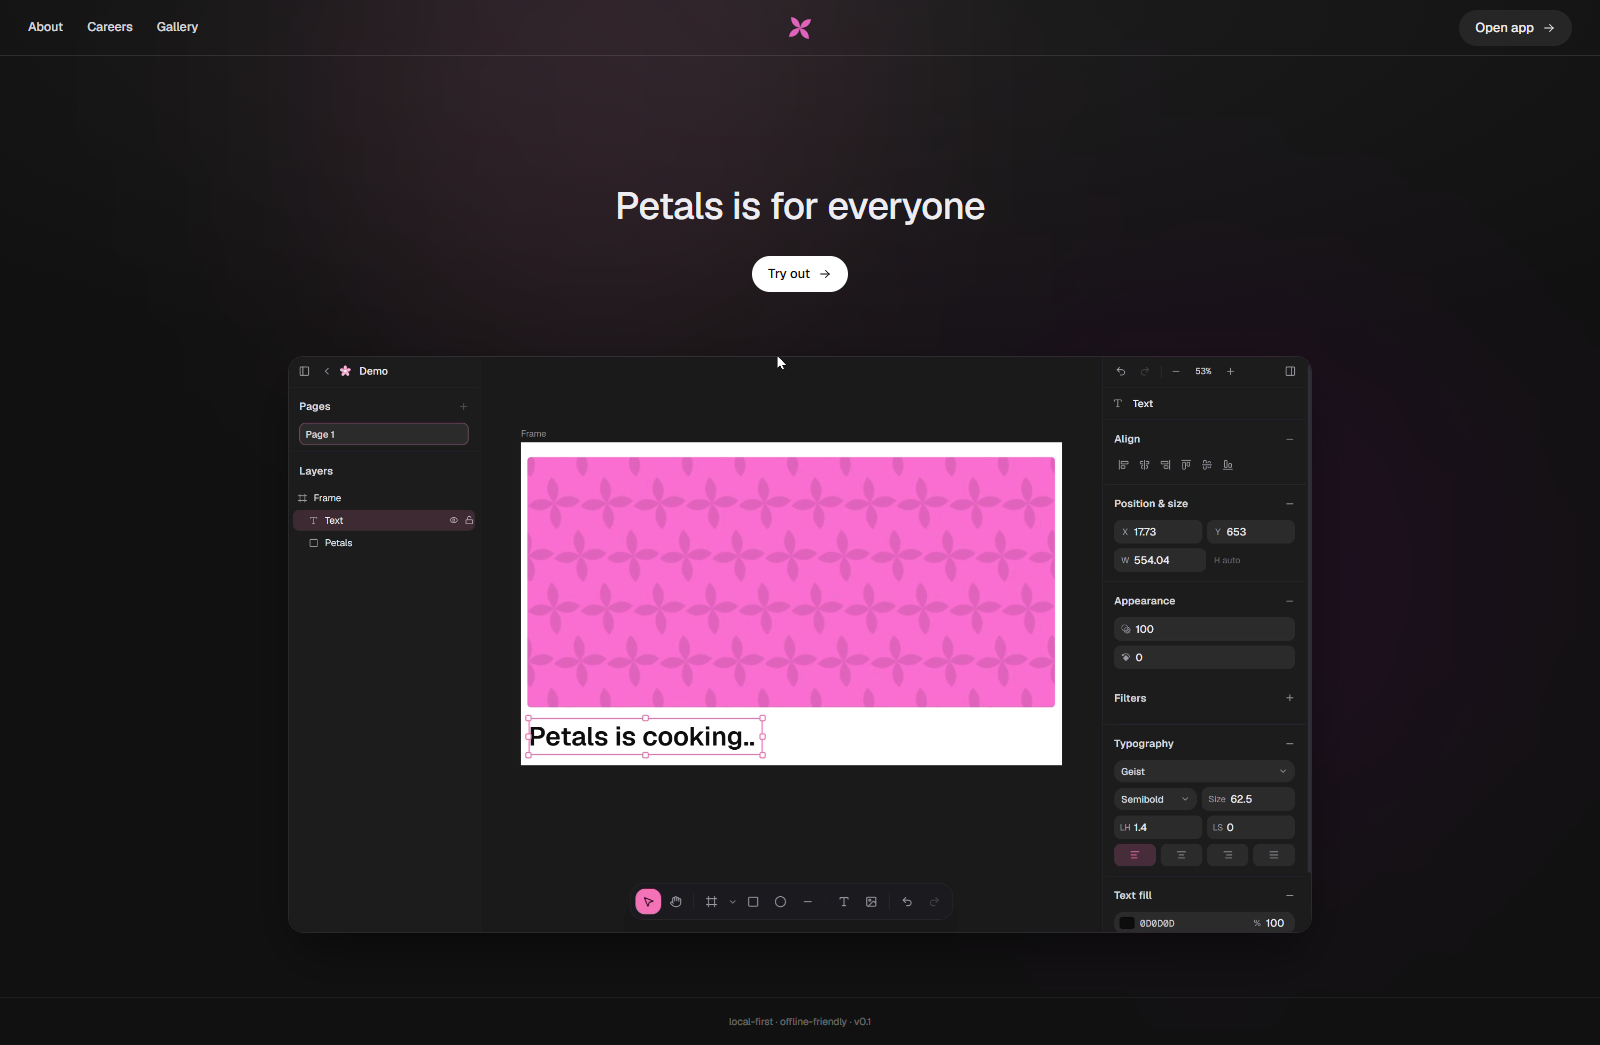
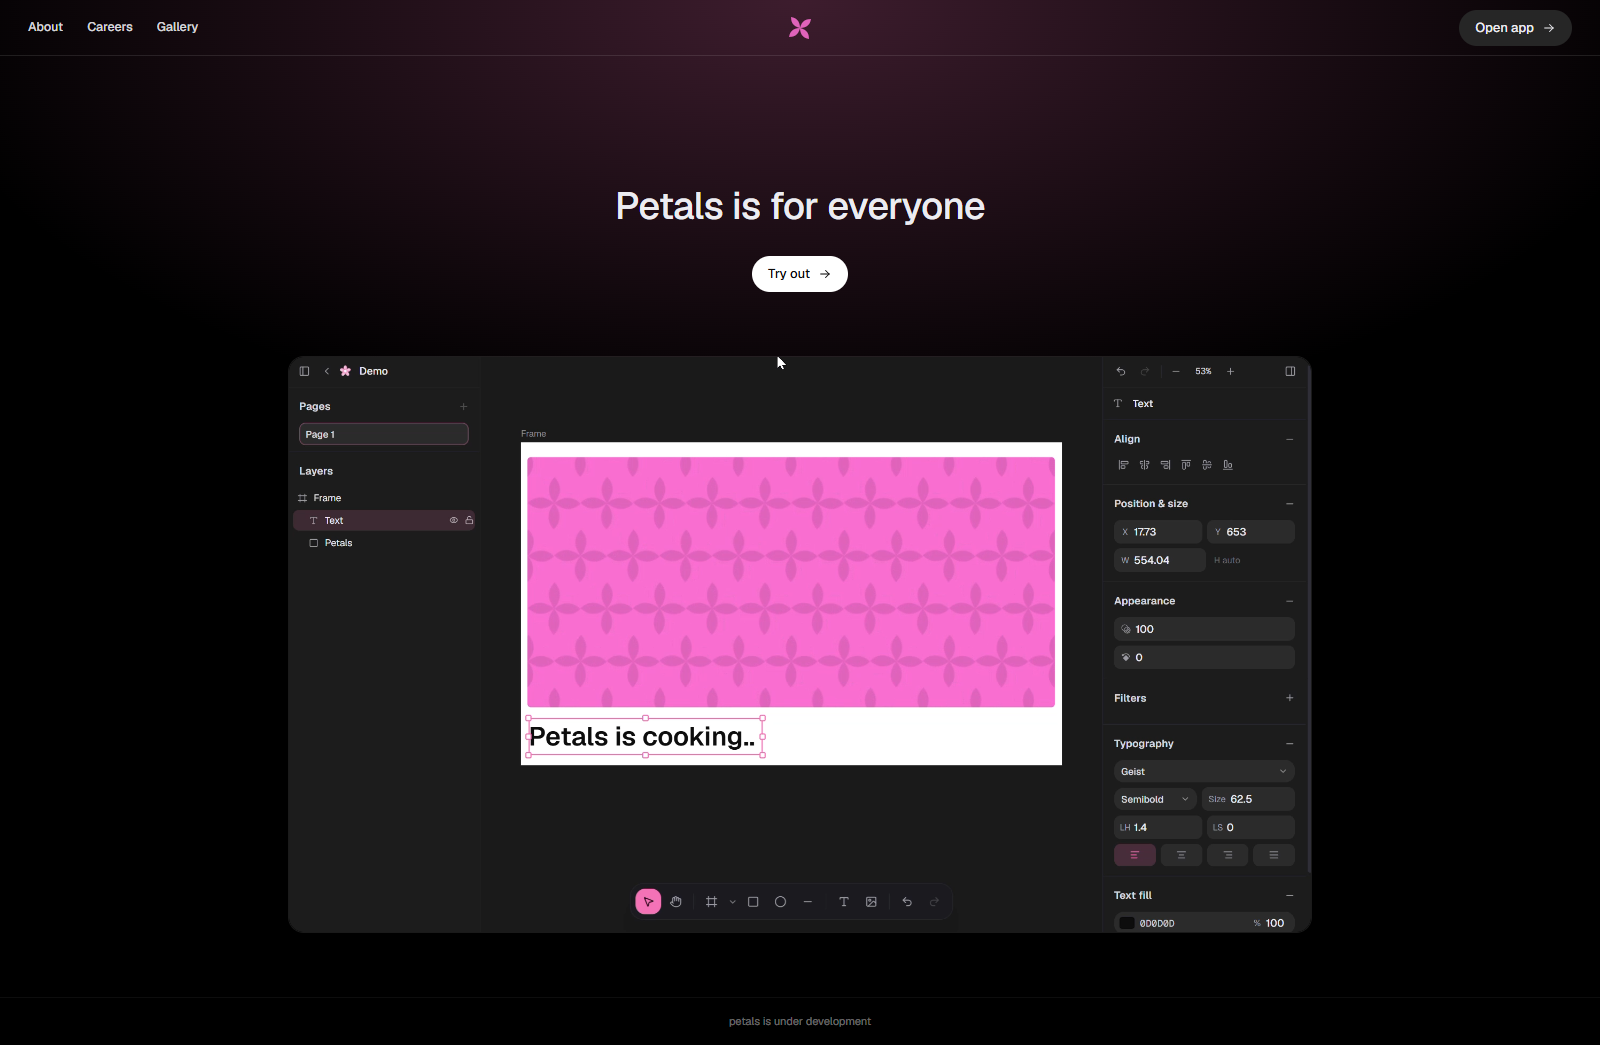
Routing: clean paths (no '#') via History API with hash deep-link migration; landing bg = rose twilight top glow; petal -> petals everywhere user-visible; dashboard header bg matches body, Log in pill added, petal type fixes

Changed region(s): [[0.8125, 0.3062, 0.9375, 0.7656], [0.4688, 0.9493, 0.5312, 0.9799]]

diff --git a/src/App.tsx b/src/App.tsx
@@ -8,24 +8,47 @@ type Route =
   | { kind: 'dashboard' }
   | { kind: 'board'; id: string }
 
-function parseHash(): Route {
-  const h = window.location.hash
-  if (h.startsWith('#/projects')) return { kind: 'dashboard' }
-  const m = /^#\/board\/([A-Za-z0-9_-]+)/.exec(h)
+function parsePath(): Route {
+  const p = window.location.pathname
+  if (p === '/') return { kind: 'landing' }
+  const m = /^\/board\/([A-Za-z0-9_-]+)/.exec(p)
   if (m) return { kind: 'board', id: m[1] }
+  if (p.startsWith('/projects')) return { kind: 'dashboard' }
   return { kind: 'landing' }
 }
 
+/** Promote old '#/...' bookmarks to clean paths (one-time, no history entry). */
+function migrateHash() {
+  const h = window.location.hash
+  if (!h.startsWith('#/') || h === '#/' ) return
+  const path = h.slice(1)
+  if (path.startsWith('/projects') || /^\/board\//.test(path)) window.history.replaceState({}, '', path)
+}
+
 export function go(to: string) {
-  window.location.hash = to
+  if (window.location.pathname === to) return
+  window.history.pushState({}, '', to)
+  window.dispatchEvent(new Event('petal:navigate'))
 }
 
 function App() {
-  const [route, setRoute] = useState<Route>(parseHash)
+  const [route, setRoute] = useState<Route>(parsePath)
   useEffect(() => {
-    const on = () => setRoute(parseHash())
+    migrateHash()
+    setRoute(parsePath())
+    const on = () => {
+      migrateHash()
+      setRoute(parsePath())
+    }
+    window.addEventListener('popstate', on)
+    window.addEventListener('petal:navigate', on)
+    // fragment-only navigations (e.g. /#/board/…) fire hashchange without reload
     window.addEventListener('hashchange', on)
-    return () => window.removeEventListener('hashchange', on)
+    return () => {
+      window.removeEventListener('popstate', on)
+      window.removeEventListener('petal:navigate', on)
+      window.removeEventListener('hashchange', on)
+    }
   }, [])
 
   switch (route.kind) {

diff --git a/src/editor/exporters.ts b/src/editor/exporters.ts
@@ -387,7 +387,7 @@ export async function exportSelectionRaster(format: 'png' | 'jpeg' | 'webp' | 'a
 
   const blob = await new Promise<Blob | null>((res) => c.toBlob(res, RASTER[format], format === 'jpeg' ? 0.92 : undefined))
   if (!blob) return
-  download(blob, `${sanitizeName(nodes[roots[0]]?.name, 'petal-export')}.${format === 'jpeg' ? 'jpg' : format}`)
+  download(blob, `${sanitizeName(nodes[roots[0]]?.name, 'petals-export')}.${format === 'jpeg' ? 'jpg' : format}`)
 }
 
 /* keep the old external name working */
@@ -636,7 +636,7 @@ export async function exportSelectionSVG() {
 
   const svg = `<svg xmlns="http://www.w3.org/2000/svg" width="${Math.round(b.w)}" height="${Math.round(b.h)}" viewBox="${b.x} ${b.y} ${b.w} ${b.h}">${defs.join('')}${clips.join('')}${body.join('')}</svg>`
 
-  download(new Blob([svg], { type: 'image/svg+xml' }), `${sanitizeName(nodes[roots[0]]?.name, 'petal-export')}.svg`)
+  download(new Blob([svg], { type: 'image/svg+xml' }), `${sanitizeName(nodes[roots[0]]?.name, 'petals-export')}.svg`)
 }
 
 /* ------------------------------ EPS / AI ------------------------------ */
@@ -934,12 +934,12 @@ export async function exportSelectionEPS(asAI = false) {
   for (const src of srcs) imageCache.set(src, await loadImage(src))
   for (const root of roots) await epsShape(nodes, nodes[root], 0, 0, out)
 
-  const name = sanitizeName(nodes[roots[0]]?.name, 'petal-export')
+  const name = sanitizeName(nodes[roots[0]]?.name, 'petals-export')
   const eps = [
     '%!PS-Adobe-3.0 EPSF-3.0',
     `%%BoundingBox: 0 0 ${W} ${Hh}`,
     `%%HiResBoundingBox: 0 0 ${fmt(b.w)} ${fmt(b.h)}`,
-    '%%Creator: Petal',
+    '%%Creator: Petals',
     asAI ? '%%Creator: Adobe Illustrator(R) 24.3; AI application' : `%%Title: ${name}`,
     '%%Pages: 1',
     '%%EndComments',

diff --git a/src/pages/Landing.tsx b/src/pages/Landing.tsx
@@ -17,14 +17,11 @@ function Arrow() {
 
 export default function Landing() {
   return (
-    <div className="relative min-h-dvh overflow-x-clip bg-[#111111] text-foreground">
-      {/* ambient glows */}
-      <div className="pointer-events-none absolute -top-48 left-[20%] h-[560px] w-[560px] rounded-full bg-primary/12 blur-[140px]" />
-      <div className="pointer-events-none absolute top-[30%] right-[8%] h-[520px] w-[520px] rounded-full bg-fuchsia-600/10 blur-[150px]" />
-      {/* film-grain-ish vignette like the mock */}
+    <div className="relative min-h-dvh overflow-x-clip bg-black text-foreground">
+      {/* Rose Twilight — pink glow rising from the top */}
       <div
-        className="pointer-events-none absolute inset-x-0 top-0 h-[720px]"
-        style={{ background: 'radial-gradient(120% 90% at 50% 0%, rgba(255,255,255,0.05) 0%, transparent 60%)' }}
+        className="pointer-events-none absolute inset-0 z-0"
+        style={{ background: 'radial-gradient(ellipse 80% 60% at 50% 0%, rgba(244, 114, 182, 0.25), transparent 70%), #000000' }}
       />
 
       {/* nav */}
@@ -50,7 +47,7 @@ export default function Landing() {
         {/* rotating single bloom, dead-center like the mock's wordmark */}
         <img
           src="/petal-flower.svg"
-          alt="Petal"
+          alt="Petals"
           className="pointer-events-none absolute left-1/2 top-1/2 size-7 -translate-x-1/2 -translate-y-1/2"
         />
         <button onClick={() => go('/projects')} className={pillDark + ' ml-auto'}>

diff --git a/src/pages/Dashboard.tsx b/src/pages/Dashboard.tsx
@@ -13,6 +13,9 @@ function FlowerLogo({ size = 20, className }: { size?: number; className?: strin
 /** Compact white pill matching the landing hero button. */
 const pillWhite =
   'inline-flex h-9 cursor-pointer items-center gap-2 rounded-full bg-white px-4 text-[13px] font-medium text-neutral-950 transition-colors hover:bg-white/90'
+/** Compact dark pill matching the landing nav button. */
+const pillDark =
+  'inline-flex h-9 cursor-pointer items-center gap-2 rounded-full bg-[#262626] px-4 text-[13px] font-medium text-foreground transition-colors hover:bg-[#333333]'
 
 function fmtDate(ts: number) {
   return new Date(ts).toLocaleDateString(undefined, { month: 'short', day: 'numeric' })
@@ -32,7 +35,7 @@ export default function Dashboard() {
       <header className="flex h-14 shrink-0 items-center justify-between border-b border-white/10 bg-background px-5 md:px-7">
         <button className="flex cursor-pointer items-center gap-2" onClick={() => go('/')}>
           <FlowerLogo size={18} />
-          <span className="text-[13px] font-semibold tracking-tight">Petal</span>
+          <span className="text-[13px] font-semibold tracking-tight">Petals</span>
         </button>
         <div className="flex items-center gap-3">
           <button

diff --git a/src/editor/CanvasRoot.tsx b/src/editor/CanvasRoot.tsx
@@ -258,7 +258,7 @@ export function CanvasRoot() {
         {empty && !gestureKind && (
           <div className="pointer-events-none absolute inset-0 flex items-center justify-center">
             <div className="text-center text-sm text-muted-foreground/60">
-              <p className="text-base text-muted-foreground/80">Petal canvas</p>
+              <p className="text-base text-muted-foreground/80">Petals canvas</p>
               <p className="mt-1">
                 Press <kbd className="rounded border border-border bg-card px-1">R</kbd> and drag to draw a rectangle ·{' '}
                 <kbd className="rounded border border-border bg-card px-1">F</kbd> for a frame ·{' '}

diff --git a/index.html b/index.html
@@ -4,7 +4,7 @@
     <meta charset="UTF-8" />
     <link rel="icon" type="image/svg+xml" href="/petal-flower.svg" />
     <meta name="viewport" content="width=device-width, initial-scale=1.0" />
-    <title>Petal — design canvas</title>
+    <title>Petals — design canvas</title>
   </head>
   <body>
     <div id="root"></div>
